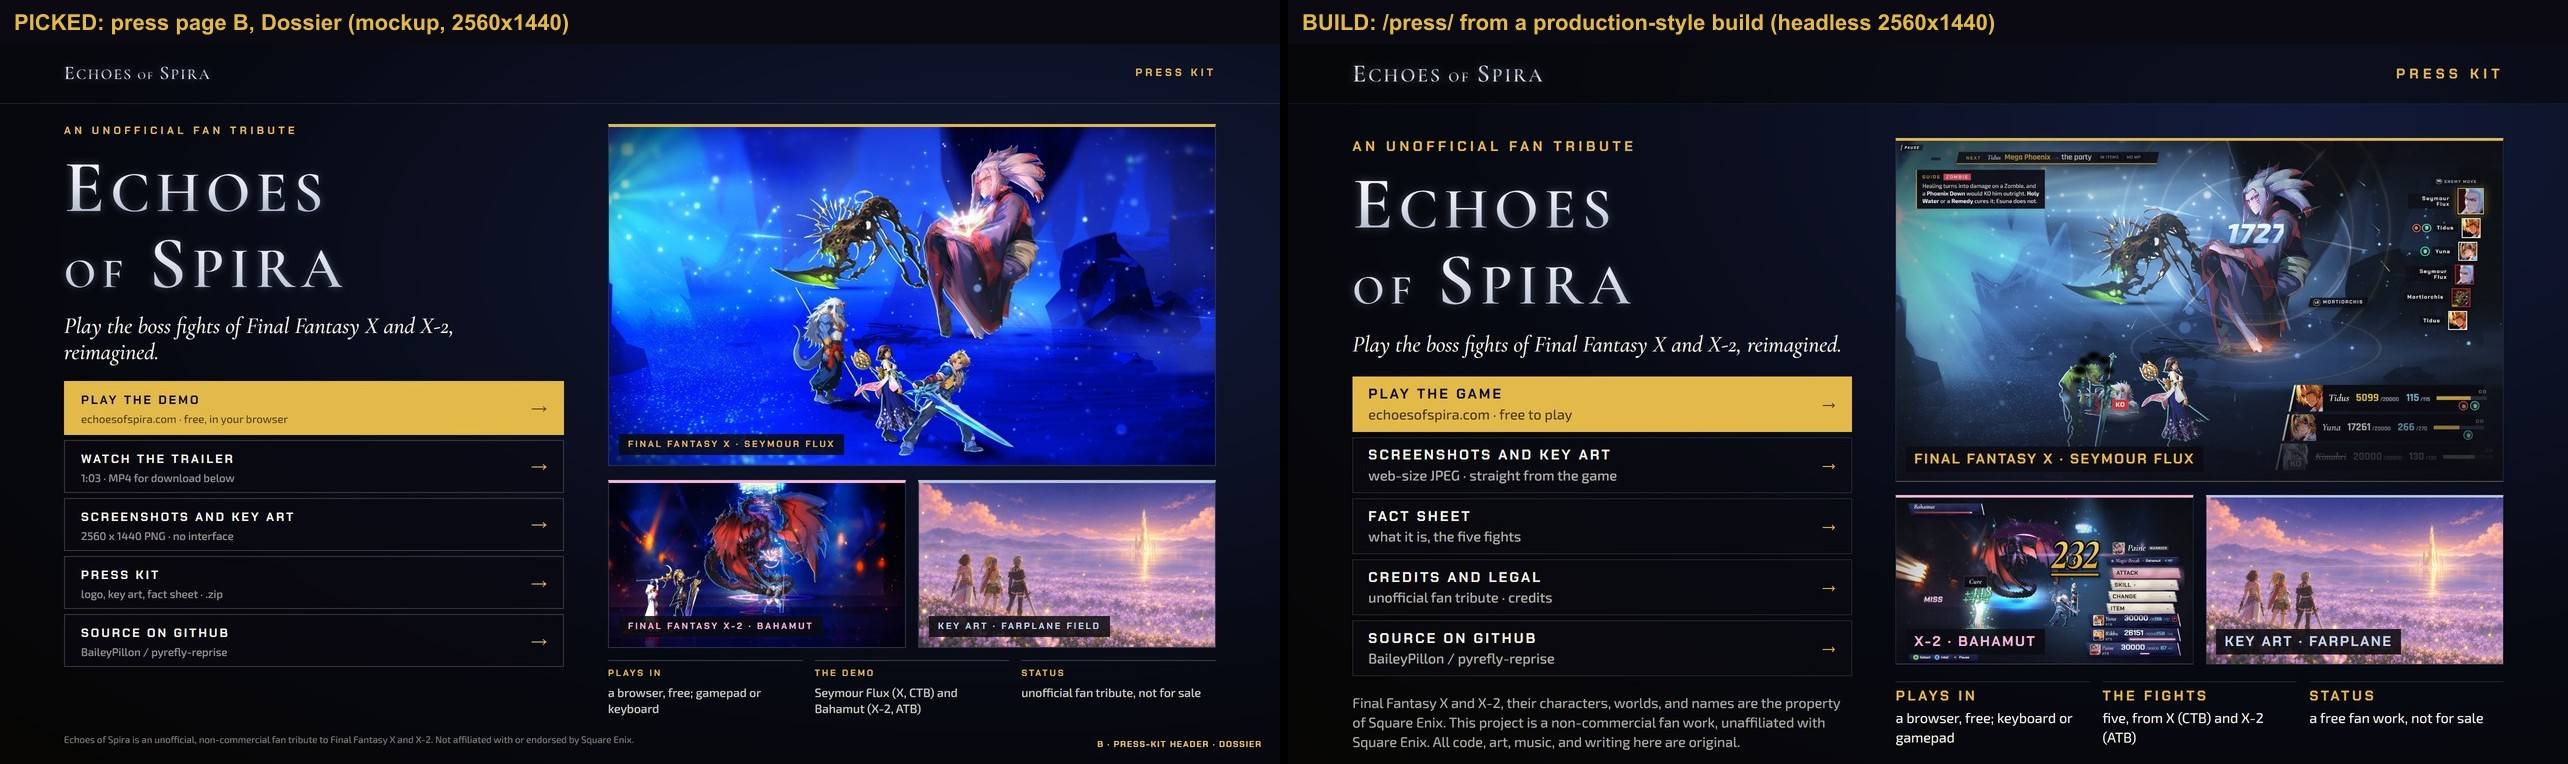
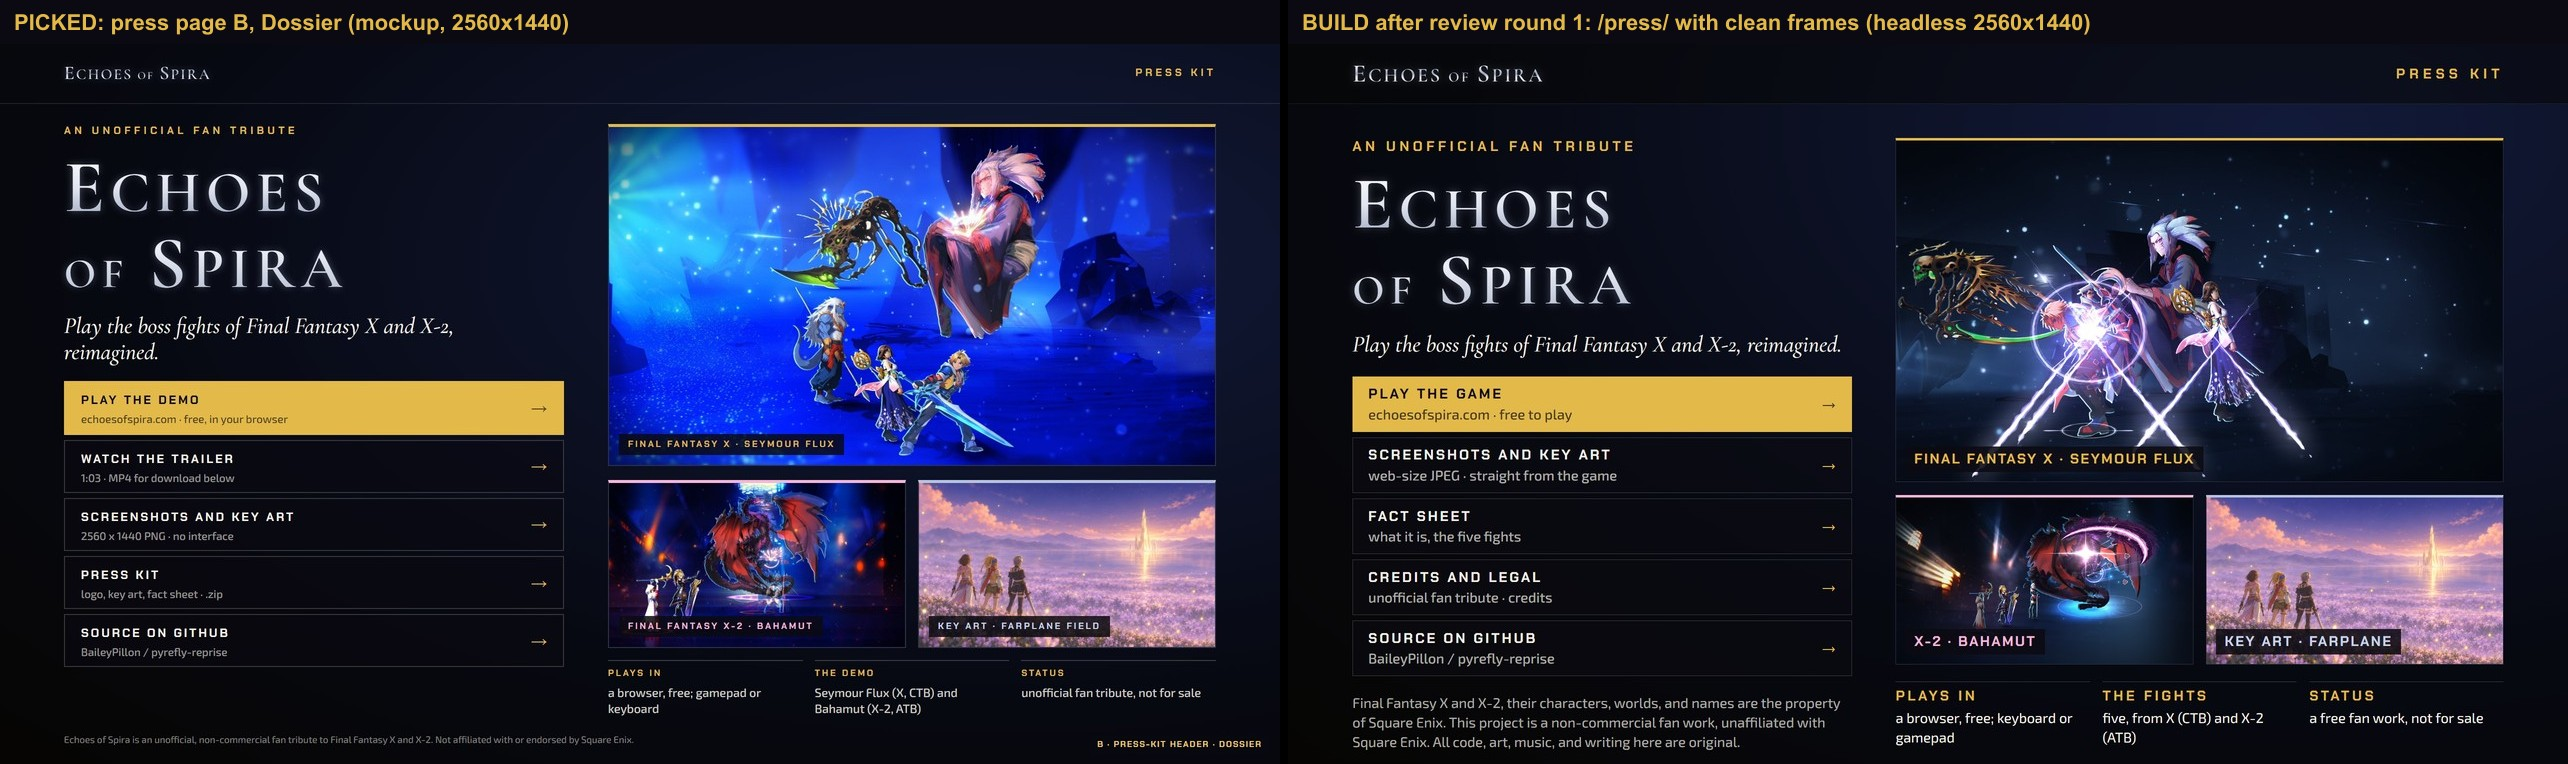
Booth screens, review round 1, part 2: the Mega Flare frame back on the wall (the presenter plays the move on a real first-menu battle, tools/press-capture.mjs --fx), the press page's before and after pictures, the handoff's review section (fixes, evidence, four questions for Bailey) and the real-id

Changed region(s): [[0.7165, 0.1806, 0.9969, 0.6322], [0.7165, 0.6322, 0.8723, 0.873], [0.5296, 0.0, 0.81, 0.0602]]

diff --git a/public/press/index.html b/public/press/index.html
@@ -195,7 +195,7 @@ main { padding-bottom: 4.5rem; }
       <a class="art" href="frames/keyart-echo.jpg"><img src="frames/keyart-echo.jpg" width="1600" height="887" loading="lazy" alt="Key art: Yuna kneeling in still water at night, the crystal city far off"><span>Key art &middot; The Echo</span></a>
       <a class="x2" href="frames/ffx2-bahamut.jpg"><img src="frames/ffx2-bahamut.jpg" width="1600" height="900" loading="lazy" alt="Final Fantasy X-2: a bright slash across Bahamut in the Bevelle arena"><span>X-2 &middot; Bahamut</span></a>
       <a class="x2" href="frames/ffx2-cure.jpg"><img src="frames/ffx2-cure.jpg" width="1600" height="900" loading="lazy" alt="Final Fantasy X-2: Cure lights the party, Bahamut waiting beyond"><span>X-2 &middot; Cure</span></a>
-      <a class="x2" href="frames/ffx2-darkness.jpg"><img src="frames/ffx2-darkness.jpg" width="1600" height="900" loading="lazy" alt="Final Fantasy X-2: a dark crescent cuts across Bahamut, the Gullwings below"><span>X-2 &middot; Darkness</span></a>
+      <a class="x2" href="frames/ffx2-mega-flare.jpg"><img src="frames/ffx2-mega-flare.jpg" width="1600" height="900" loading="lazy" alt="Final Fantasy X-2: Bahamut's Mega Flare strikes the party in a beam of white light"><span>X-2 &middot; Mega Flare</span></a>
       <a class="art" href="frames/keyart-farplane.jpg"><img src="frames/keyart-farplane.jpg" width="1344" height="768" loading="lazy" alt="Key art: the Gullwings at Farplane Field"><span>Key art &middot; Farplane</span></a>
     </div>
     <p class="note">Every picture is a capture of the game itself with the interface hidden, or its own painted key art. They are web size; the game draws them larger. The frames show a build made for a live demo and may differ in small ways from the one online.</p>

diff --git a/docs/handoff/booth-screens.md b/docs/handoff/booth-screens.md
@@ -4,6 +4,30 @@ Written 2026-10-24 (overnight) by the booth sub-agent of the Echoes of Spira rel
 
 **Game case (AGENTS.md rule 14): both games.** These are the shared front door (the title, the end card, the attract card, the press page): they say nothing about either game and change no fight, rule or number. Chapter I (`seymour-flux`) is FFX and Chapter IV (`ffx2-bahamut`) is FFX-2; the end card after a won fight is the same picture for both; the press page tags each frame with its game (FFX gold, FFX-2 pink).
 
+## Review round 1 (2026-10-24, ~03:00 to ~04:00 EDT): what the reviewer found and what was done
+
+The review (`D:/Tools/pyrefly-scratch/2026-10-24/booth/review/REVIEW.md`, sha `154468844`) found no critical defect, two majors and six minors. Every item below is a game case "both" (the front door is shared plumbing; no fight, rule or number moved).
+
+| finding | verdict | what was done | evidence |
+|---|---|---|---|
+| **M1** press wall: HUD-on frames from scripted runs with the party's HP raised (Yuna 30000 / 30000, rows colliding), two caught mid-fade; the picked mockup shows clean frames | **fixed** | All six game frames retaken: a real fight of the chapter played by the game's own `intended` strategy at its real stats (Yuna 690, Rikku 1839, Paine 1706 on the Chapter IV first menu), the interface layer (`#ui`) hidden, no `?switchboard=1` (so no label to clean out). New tool `tools/press-capture.mjs` (`--chapter ch1\|ch4`, `--fx mega\|cure` for the move's own presentation); `tools/press-frames.json` lists the picks; `node tools/press-frames.mjs` makes the web JPEGs. The Mega Flare frame is the presenter playing Mega Flare's own events on a real first-menu battle (`fxPlay`, the camera lane's "menuhold" method): a fight at normal speed reaches Mega Flare only at Bahamut's twelfth action. Pictures: hero = a lance strike on Seymour Flux (FFX), then Bahamut struck (FFX-2) and the Farplane key art; gallery = flames on Seymour, the party in a burst of light, the strike, Cure, Mega Flare, the two key arts. The page's alt texts and captions were rewritten to match. m5 (the smeared wing) went with the old frame. | `evidence/compare-press.jpg` (picked mockup beside the build), `evidence/compare-press-frames-before-after.jpg`, `evidence/review-round-1/picked-captures/`, contact sheets `ch1-pick1.jpg`, `ch4-pick1.jpg`, `fx-mega-pick.jpg` |
+| **M2** press page breaks between 761 and about 1000 px | **fixed** | The one-column breakpoint is now 1000 px (root 16 px); the wall stays two frames wide down to 600 px and one frame on a phone (`@media (max-width: 600px)`); the gallery is two columns on a tablet. Measured: 768 x 1024 wall 720 px (was 96), 820 x 1180 wall 772 px (was 148), 1000 x 800 wall 952 px, 1001 and 1024 wide two columns (wall 329 and 352 px, as before), 0 px sideways scroll at every width from 390 to 1920. | `evidence/compare-press-tablet-before-after.jpg`, `evidence/review-round-1/press-widths-report.json`, `press-final/` |
+| **m1** pad wake on a 50 ms timer | **fixed** | `AttractCard.pollPads()`, called by `DemoTitle.update` on every frame while the card is up; the 50 ms timer stays as the backstop for a page whose frames do not run. Measured on the REAL idle path (the title's own card; `performance.now()` skewed forward 61 s so the minute expires on the next frame): 14 of 14 pad presses woke the card and left the title the title (20 ms x5, 30 ms x5, 60 ms, 120 ms, a stick push, Start). | `evidence/review-round-1/pad-real-report.json` |
+| **m3** end card at 4:3, 5:4: the words sat on the painted lettering | **fixed** | Squarer than 3:2 (`min-aspect-ratio: 101/100` to `max-aspect-ratio: 31/20`) the whole painting is shown from the top (`object-fit: contain`) instead of the wide crop; the lettering is the middle 39 percent (x 0.306 to 0.694, measured on the painting), each word block stays under 27 percent. Checked at 1100 x 1000, 1280 x 1024, 1500 x 1000, 1550 x 1000, 1600 x 1200: clean; 16:10, 16:9 and 3440 x 1440 are untouched. | `evidence/review-round-1/cards-after/` |
+| **m4** portrait windows: 8 px type, cropped wordmark | **fixed** | In a portrait window the unit is the width over a phone's 390 (16 px type on a phone, 19 px on a tablet), the whole painting is shown across the top and the words and QR stack under it; the attract card's prompt, button line and caption were restacked for it. 390 x 844, 768 x 1024, 1024 x 1280: nothing off the screen, smallest word 16 px, 0 console errors. | `evidence/review-round-1/cards-after/` |
+| **m2** the card after a fight holds 8 s, no hint; the flow returns to the picker where no attract card appears | **not changed: Bailey's call** | Both are release 62's design and the QR is the booth's one conversion, so lengthening the card or sending idle at the picker back to the title changes what a visitor sees. Questions 2 and 3 below. | |
+| **m6** the fan-notice sentence "All code, art, music, and writing here are original" | **not changed: Bailey's call** | It is the game's own `FAN_NOTICE` (README, the credits panel) and a test holds the page equal to it; after 2026-10-18's retail-assets rule only Bailey can say if it is still true of what ships. If it changes, it changes in the game and on the page together. Question 4 below. | |
+
+**Questions for Bailey (none blocks Saturday's playtest of the cards):**
+1. The press wall now shows clean frames of tonight's build. After the Saturday lock the HUD, camera and look may change: retake with `node tools/press-capture.mjs ...` (two chapters, plus `--fx mega`), pick from the contact sheet, `node tools/press-frames.mjs`. Is that the plan, or are tonight's frames final?
+2. Should the end card after a fight stay longer than 8 s, or until a press?
+3. Should idle at the picker (where the flow returns after the end card) go back to the title, so the attract card can appear?
+4. Is "All code, art, music, and writing here are original" still the sentence for the game and the press page?
+
+**For the HUD lane (not this lane's code):** the F1 FFX-2 party row has no room for a five-digit max HP next to the MP value (the reviewer saw it only on scripted frames with the HP raised to 30000; at real stats, 690 to 1839, it is clean).
+
+**How the frames were made, exactly:** `tools/press-capture.mjs` is the repo's tool; the six picks were captured by its scratch twin `D:/Tools/pyrefly-scratch/2026-10-24/booth/fix/frames.mjs` / `fxframes.mjs` (the same code plus the RIG-RECORD lock for the shared GPU), and the repo tool itself was then run once for each mode and produced captures the same way (`booth/fix/shots/tool-proof-ch4`, `tool-proof-fx`). The raw captures are 2560 x 1440 JPEG at quality 90 (`booth/fix/shots/frames-ch1`, `frames-ch4`, `fx-ch4`); the web JPEGs are 1600 wide, each under 300 KB. A new test (`booth-press-page.test.ts`) refuses a game frame whose recorded source is not the capture tool, a scripted run or an evidence frame, or a config that cleans out a switchboard label.
+
 ## What was built, and the picks it follows
 
 | piece | what it is | where | the pick |
@@ -40,7 +64,7 @@ All the mockup numbers were made at 1280 x 720 and 2x; the build sizes everythin
 2. **End card after a fight adds "Thanks for playing"** (decision 173h's words) above the picked frame's words; the picked frame was drawn for the trailer's last 9 s and has no such line. `END_THANKS_ON_AFTER_FIGHT` in `boothCards.ts` takes it away. The card also has no draining bar and no "continue" chip (the old cream card had both).
 3. **The painting is used as it is, 1682 x 932**, scaled 1.52x at 2560 x 1440. A GPU 2x upscale (the mockup notes ask) needs Bailey's yes and was **not run**; it would only soften less.
 4. **Press page words:** "Play the game", not "Play the demo" (the public site is the whole game, five fights; the two-fight demo is the booth's address); the "Press kit .zip" row is not there (no zip exists): "Fact sheet" and "Credits and legal" take its place; the footer legal line is the game's own fan-work notice verbatim (`FAN_NOTICE`, the README's), not the mockup's "Not affiliated with or endorsed by Square Enix" sentence; the facts strip reads "five, from X (CTB) and X-2 (ATB)"; the link sub-lines are shorter (they wrapped on a phone). Below the dossier the page also has a gallery, the fact sheet and the credits, which the header mockup did not show.
-5. **The frames are from the playtest build r63-play** (F1 HUD, the new look), not release 62's: they show what Bailey plays tonight, which may change in his Saturday picks. The playtest switchboard's corner label (the key list at the top right of every capture) was taken out of each picture by a median over the label's box (`tools/press-frames.mjs`); nothing else in a picture is touched; the in-game "PAUSE" chip and ghosted enemy-move list are the game's own. Retake after the lock: `node tools/press-frames.mjs` (the config lists the sources) and the page needs no change.
+5. **The frames are clean captures of the playtest build r63-play** (F1 look, the new camera), retaken after review round 1 (see the section above): a real fight at the game's own stats with the interface hidden, as the picked mockup's "three clean frames" and its "no interface" line say. They are tonight's build, so they may change in Bailey's Saturday picks: retake after the lock with `node tools/press-capture.mjs` (flags in its header), pick from a contact sheet, list the picks in `tools/press-frames.json`, run `node tools/press-frames.mjs`; the page needs no change except the alt texts and captions of any frame that is swapped.
 6. The attract card is an overlay on the live title (the title, its music and its state stay), so there is no fade through black and no art to load; the mockup is a still. The music is not changed (agents cannot hear: AGENTS.md rule 13).
 
 ## What the press page claims, and where each line comes from
@@ -53,10 +77,11 @@ Every credit line is one of the game's own REQUIRED lines (`src/app/credits/cred
 
 Headless Chromium on the real GPU, 2560 x 1440, the dev server on :5375 (code = this branch); RIG-RECORD held for each run.
 
+- (refreshed in review round 1: `compare-press.jpg`, `compare-press-phone.jpg`, plus `compare-press-frames-before-after.jpg`, `compare-press-tablet-before-after.jpg` and the folder `review-round-1/`: the six picked captures, the contact sheets, the press page at six sizes, the cards at eleven window shapes, the pad-tap and width reports; the same four compare pictures are in `docs/screenshots/booth-screens/`)
 - `compare-endcard.jpg`, `compare-attract.jpg`, `compare-press.jpg`, `compare-press-phone.jpg`, `compare-endcard-afterfight.jpg` and `-ch4.jpg`: picked mockup on the left, the build on the right (the first five are also in the repo: `docs/screenshots/booth-screens/`). `final/` holds the frames they come from, the end and attract cards' motion strips (`motion-strips.jpg`: 0.25 s to 4.6 s), the REDUCE MOTION frames and the press page at 2560, 1280 and 390 (full-page strips included); `final/final-report.json` and `final-report-press.json` hold the measurements.
 - `flow/` the real-input runs: `idle-flow.json` (60 s of nothing at the title: the card is up; a real Enter takes it away and the title is still the title 3 s later; 60 s again, a pad A press does the same; then Enter starts the game: `chapter-select`), `thanks-flow.json` (a won Chapter I and Chapter IV fight by the real flow, the results panel confirmed with a real Enter, the card, a press ends it).
 - `press/` the press page at 2560 x 1440, 1280 x 720 and 390 x 844 (2x), full-page strips included; 0 console errors; text floor measured (smallest text 28 px at 2560, 14 px at 1280, 16 px at 390; no horizontal scroll at 390).
-- Tests: `tests/unit/booth-switch.test.ts`, `booth-cards.test.ts`, `booth-attract.test.ts`, `booth-end-card-screens.test.ts`, `booth-press-page.test.ts` (new, 64 cases); every existing test file that imports the demo, title or flow modules (52 files) and every test that scans the source tree (39 files) pass unchanged; `tsc --noEmit` is clean; `node tools/orphans.mjs` lists none of the new modules. The full 1,268-file suite was **not** run to the end (two workers took over an hour; I stopped it): the one failure seen in the related set, `ui-pause-stack` (a 17 s source scan timing out under load), passes alone.
+- Tests: `tests/unit/booth-switch.test.ts`, `booth-cards.test.ts`, `booth-attract.test.ts`, `booth-end-card-screens.test.ts`, `booth-press-page.test.ts` (new, 64 cases; 71 after review round 1); every existing test file that imports the demo, title or flow modules (52 files) and every test that scans the source tree (39 files) pass unchanged; `tsc --noEmit` is clean; `node tools/orphans.mjs` lists none of the new modules. The full 1,268-file suite was **not** run to the end (two workers took over an hour; I stopped it): the one failure seen in the related set, `ui-pause-stack` (a 17 s source scan timing out under load), passes alone.
 
 ## Not done, and questions for Bailey
 
@@ -65,5 +90,5 @@ Headless Chromium on the real GPU, 2560 x 1440, the dev server on :5375 (code = 
 - **The Echo painting's 2x upscale** (a GPU job): your yes first.
 - **Where the QR points:** it points to the game (`echoesofspira.com`), as the mockup says; the options book asked "the game, or a press page" and nothing records an answer. **The press address** is `/press/` (the options book suggested it) and there is **no contact line** on it (none was approved; I put none).
 - Idle at the picker or in a fight does not show the card (only the title's 60 s count, as release 61's reel); the booth loop on a second screen is `?card=attract`.
-- The frames are stand-ins until the Saturday lock; `node tools/press-frames.mjs` retakes the pictures from new captures (clean ones, without the switchboard label, are better than cleaned ones).
+- The frames are tonight's build; retake them after the Saturday lock with `tools/press-capture.mjs` (item 5 above). The Mega Flare frame is the presenter playing the move on a first-menu battle (`--fx mega`), not a fight that reached Bahamut's twelfth action.
 - No sound for either card. Nothing was deployed; nothing was sent.
